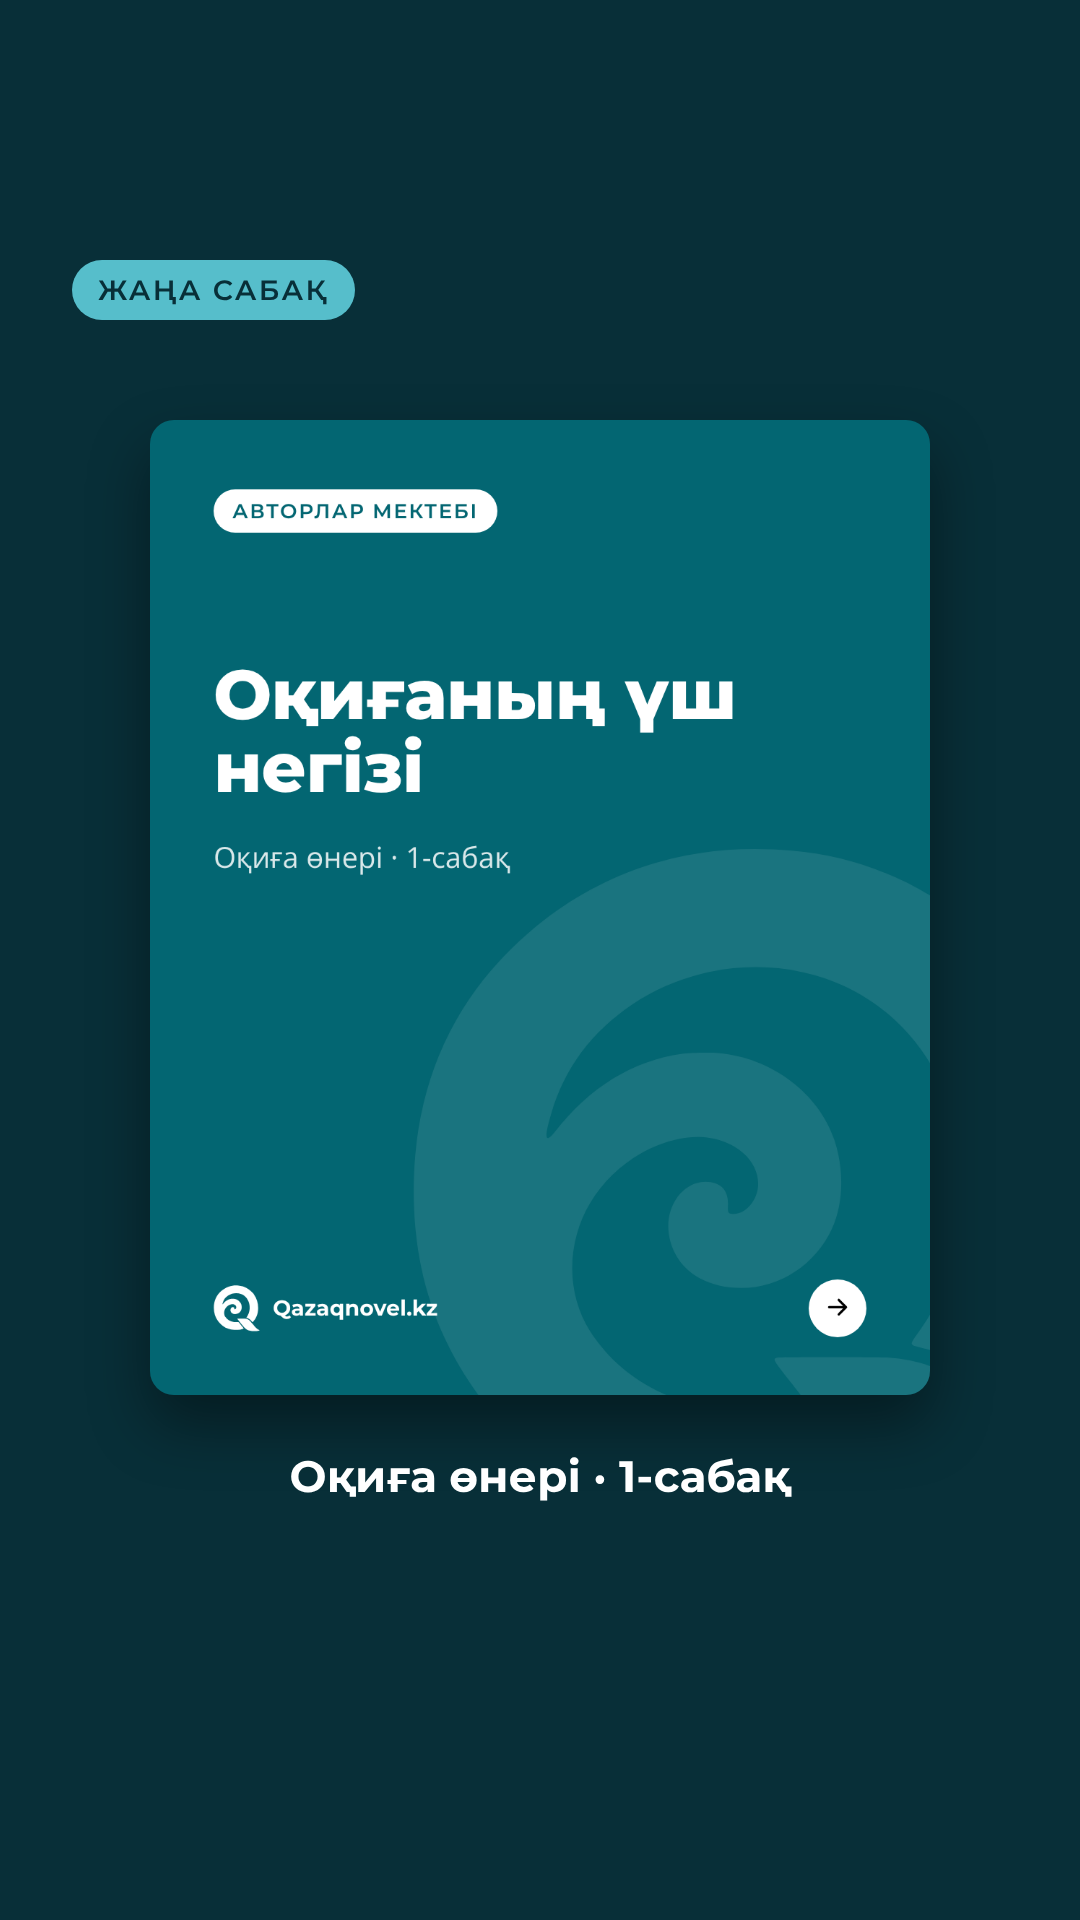
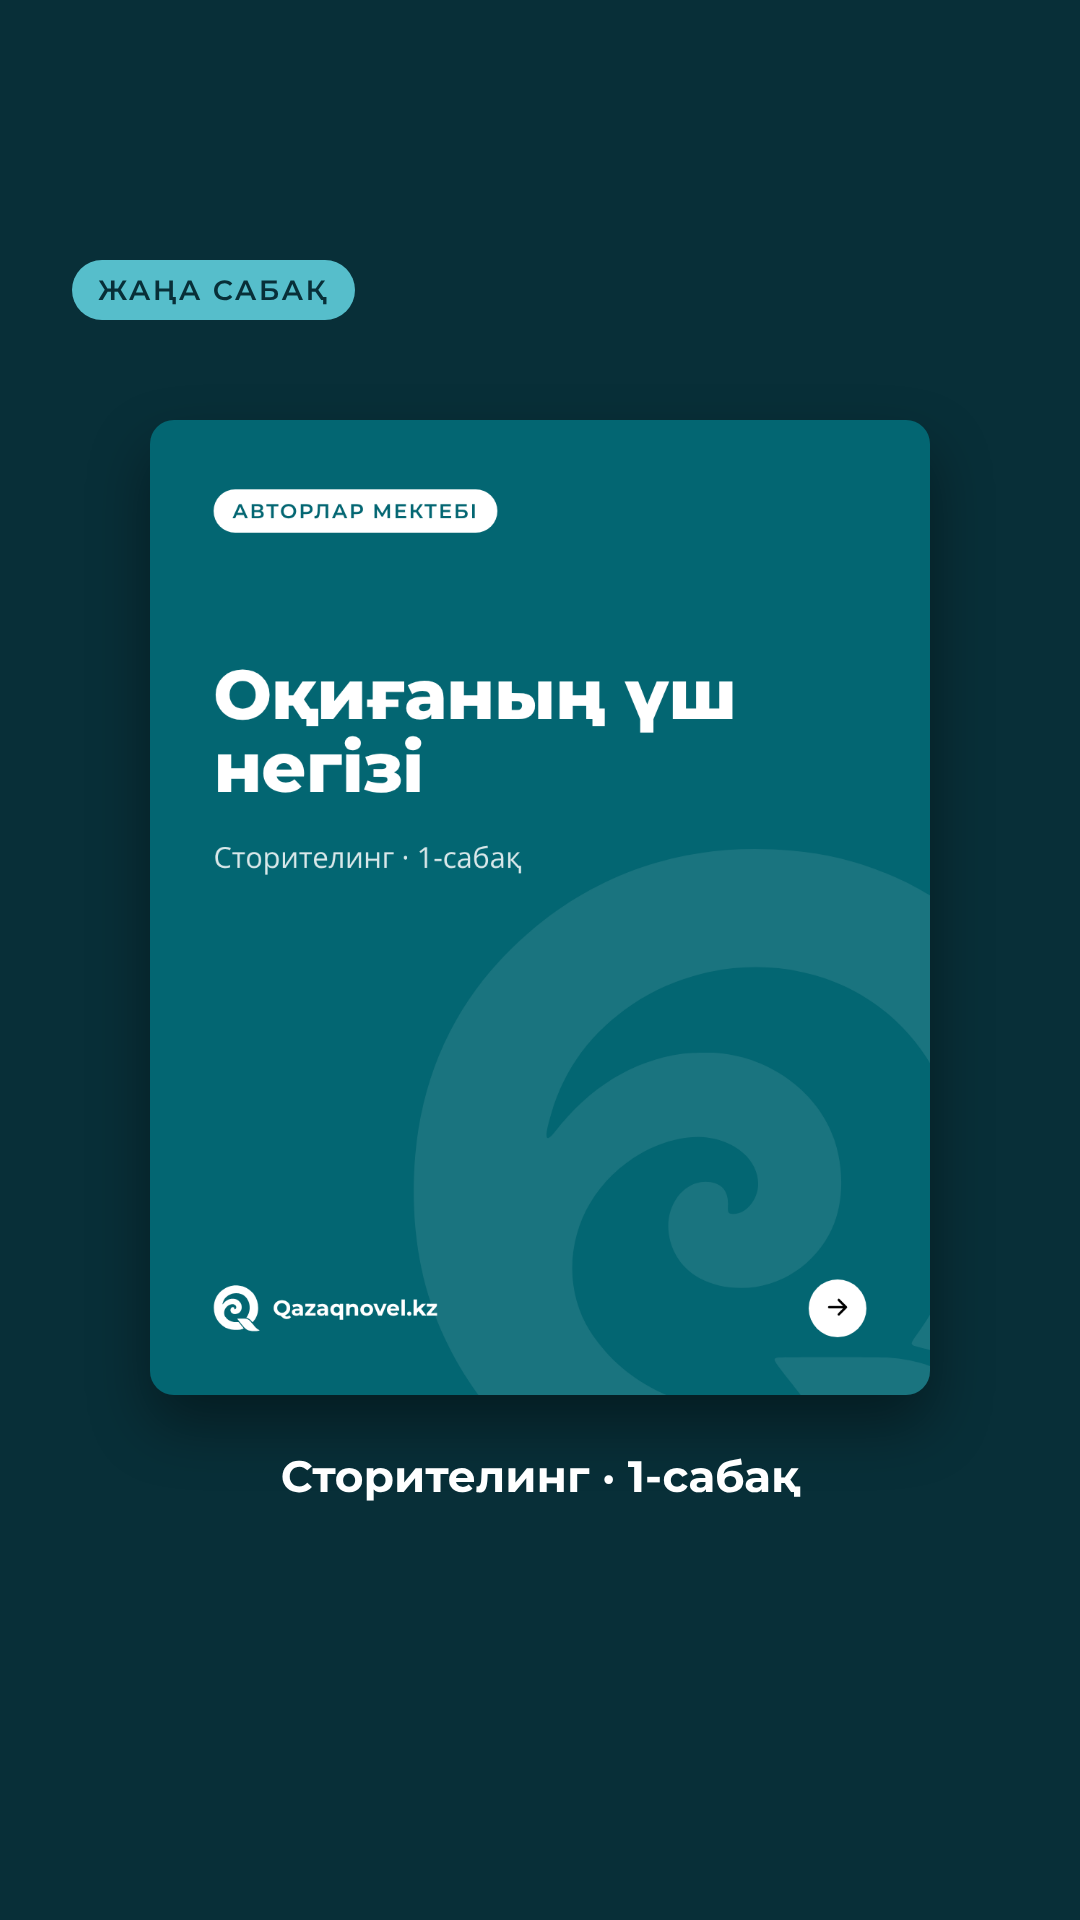
Rename the course series to Сторителинг
Claude-Session: https://claude.ai/code/session_01FTUVU95tvv6KgeLkZJcVx1

Changed region(s): [[0.2444, 0.75, 0.7333, 0.7812], [0.2139, 0.4375, 0.3667, 0.4688], [0.3972, 0.4375, 0.4889, 0.4688]]

diff --git a/plan/storytelling-course.md b/plan/storytelling-course.md
@@ -1,4 +1,4 @@
-# Курс «Оқиға өнері — сторителлинг»: план серии в «Авторлар мектебі»
+# Курс «Сторителинг»: план серии в «Авторлар мектебі»
 
 Дата: 17 октября 2026 года. Статус: **черновик, ждёт утверждения
 владельца.** Основа — разбор восьми книг о сторителлинге
@@ -16,12 +16,11 @@
 - **Результат курса:** к последнему уроку у подписчика есть логлайн,
   герой с желанием и ошибочным убеждением, карта сюжета и первая
   написанная сцена — и он публикует её на qazaqnovel.kz.
-- **Название серии:** «Оқиға өнері — сторителлинг» (утверждено владельцем
-  17.10.2026). На обложке урока — короткое «Оқиға өнері · N-сабақ», в
-  подписи при первом упоминании — «Оқиға өнері — сторителлинг курсы».
-  Хэштеги серии — `#оқиғаөнері #сторителлинг`, к ядру `#qazaqnovel
-  #қазақшажаз #авторлармектебі` (всего 5).
-- **Highlights:** отдельная обложка «Оқиға өнері» — туда все сторис
+- **Название серии:** «Сторителинг» (решение владельца 17.10.2026,
+  написание — как у владельца, с одной «л»). На обложке урока —
+  «Сторителинг · N-сабақ», в подписи — «Сторителинг» курсы. Хэштег серии —
+  `#сторителинг`, к ядру `#qazaqnovel #қазақшажаз #авторлармектебі`.
+- **Highlights:** отдельная обложка «Сторителинг» — туда все сторис
   курса по порядку.
 
 ## Принципы (выводы из книг)
@@ -48,7 +47,7 @@
 
 | № | `layout` | Что на слайде |
 |---|---|---|
-| 1 | `cover` | крючок-заголовок (≤ 45 знаков) + `subtitle: Оқиға өнері · N-сабақ` |
+| 1 | `cover` | крючок-заголовок (≤ 45 знаков) + `subtitle: Сторителинг · N-сабақ` |
 | 2 | `step` 01 | **Қағида** — идея урока одной фразой |
 | 3 | `step` 02 | **Неге керек** — что ломается без неё |
 | 4 | `step` 03 | **Әлсіз нұсқа** — пример «до» (`example_label: Былай емес`) |
@@ -73,7 +72,7 @@
 Ролик — текстовая анимация (можно собрать в коде через Motion, без
 съёмки) или голос владельца за кадром — решить на первом ролике.
 
-### Сторис недели (Highlights «Оқиға өнері»)
+### Сторис недели (Highlights «Сторителинг»)
 
 | День | Что | `layout` |
 |---|---|---|
@@ -164,7 +163,7 @@ R — урок с Reels. Источник — книга из разбора, о
 
 ## Что нужно решить владельцу
 
-1. ~~Название серии~~ — решено: «Оқиға өнері — сторителлинг».
+1. ~~Название серии~~ — решено: «Сторителинг».
 2. Курс занимает все понедельники полгода — так, или чередовать с
    практическими постами (тогда курс растянется до осени 2027)?
 3. Reels: текстовая анимация без голоса или голос владельца за кадром?

diff --git a/docs/storytelling-books.md b/docs/storytelling-books.md
@@ -1,4 +1,4 @@
-# Книги о сторителлинге: разбор для курса «Оқиға өнері»
+# Книги о сторителлинге: разбор для курса «Сторителинг»
 
 Дата: 17 октября 2026 года. Зачем: взять из популярных книг о построении
 историй то, что работает, и собрать из этого курс для рубрики «Авторлар
